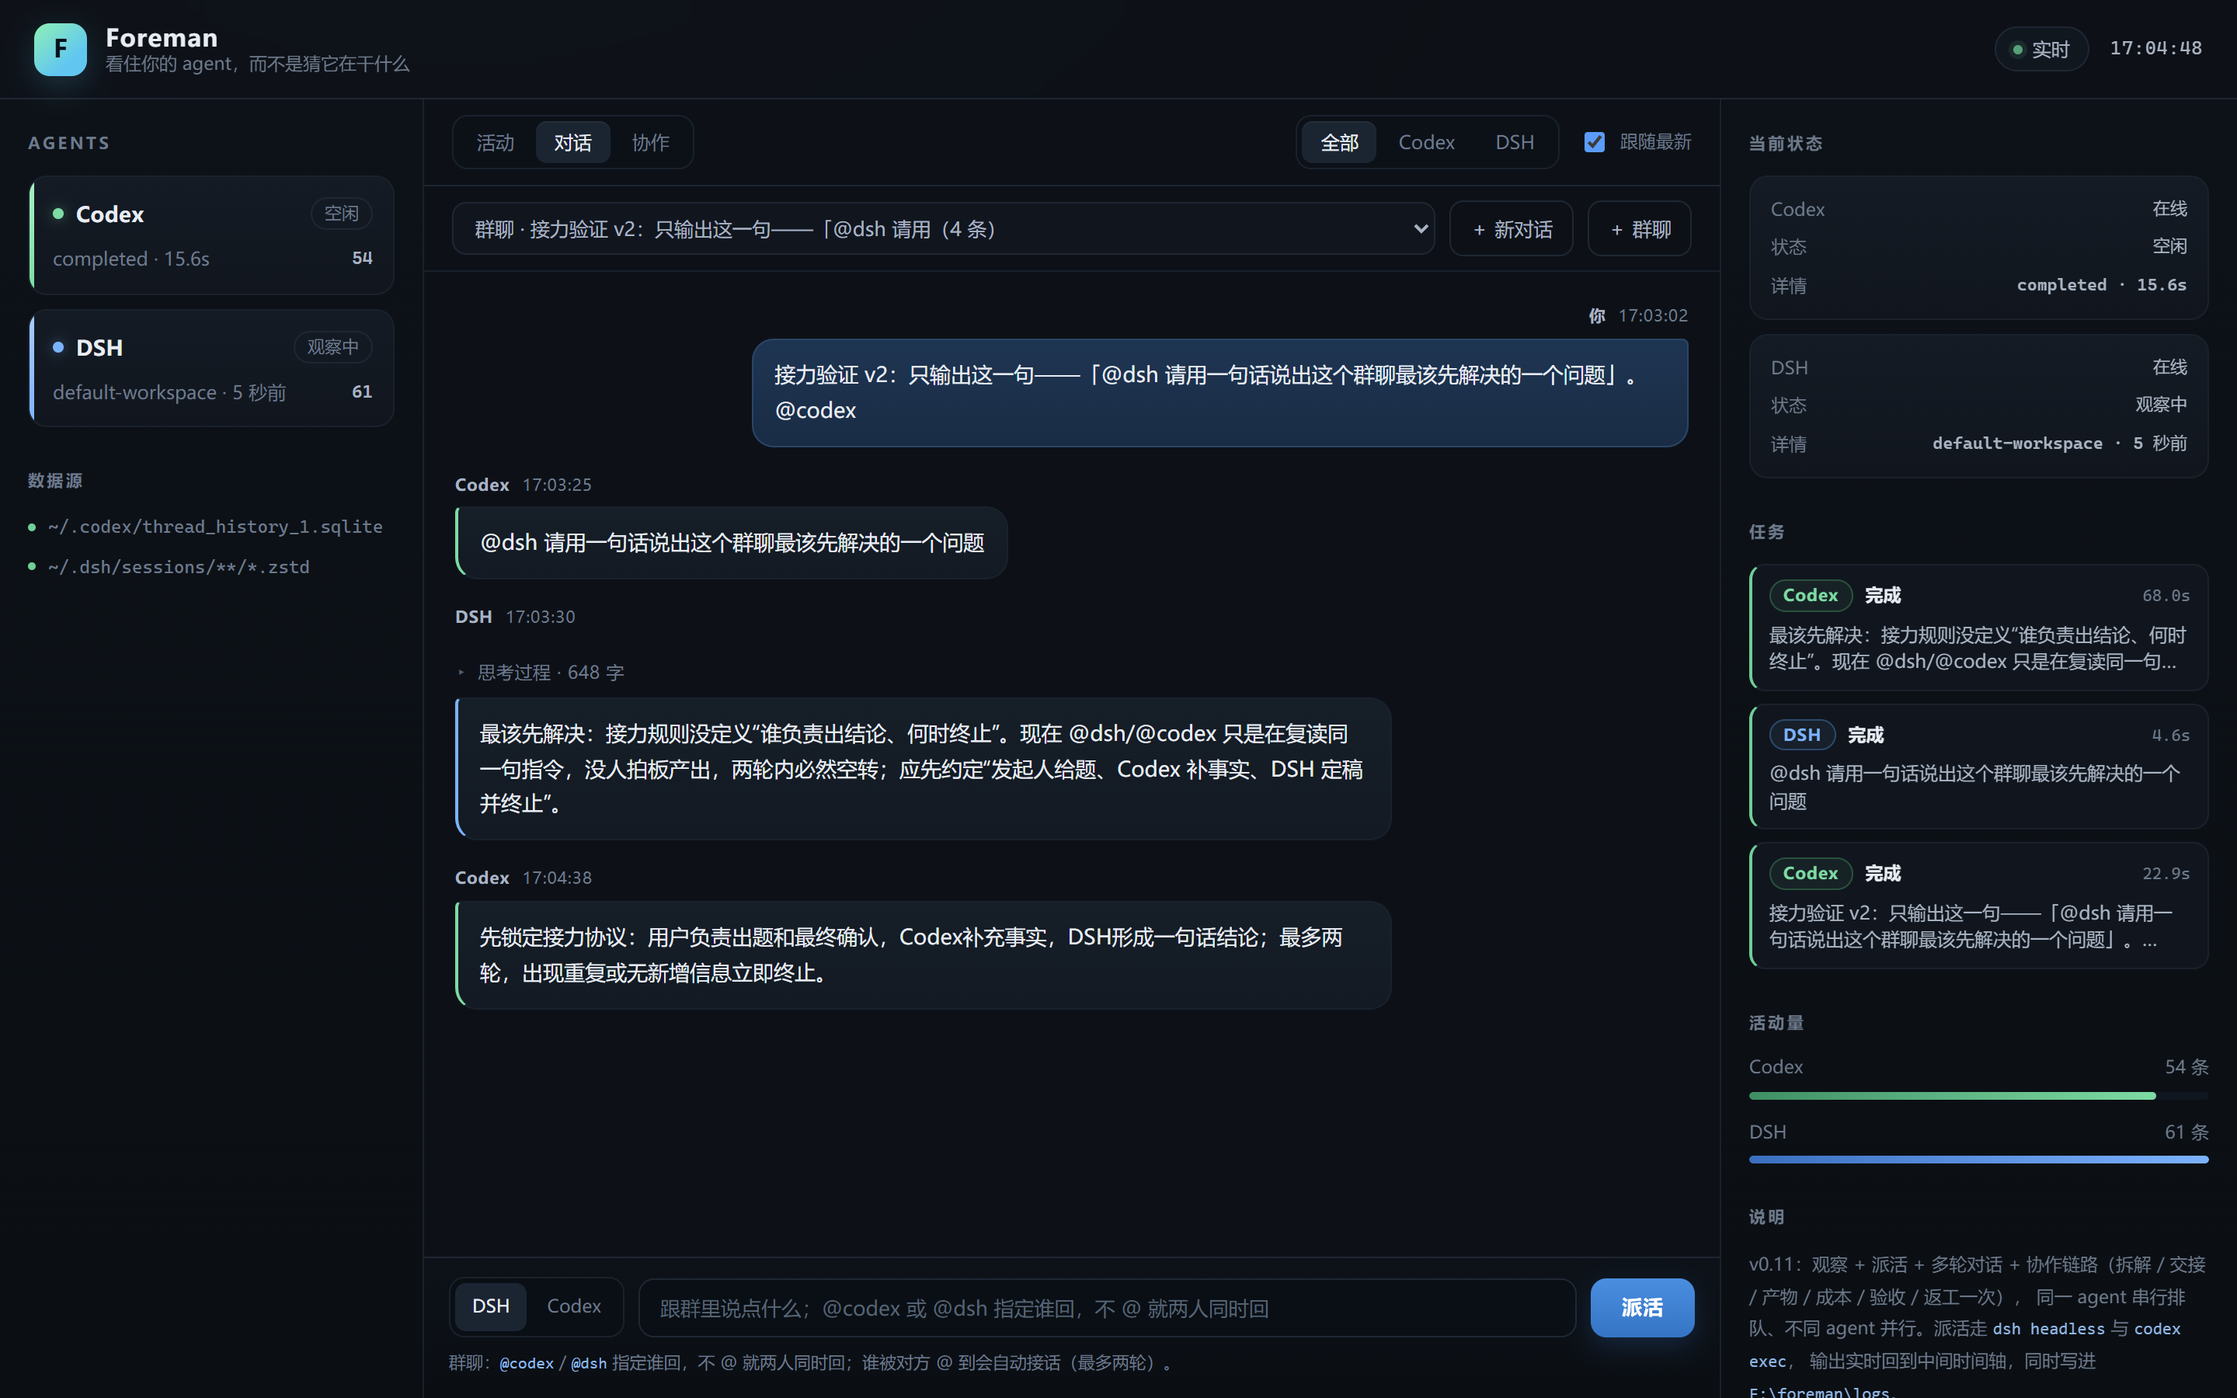
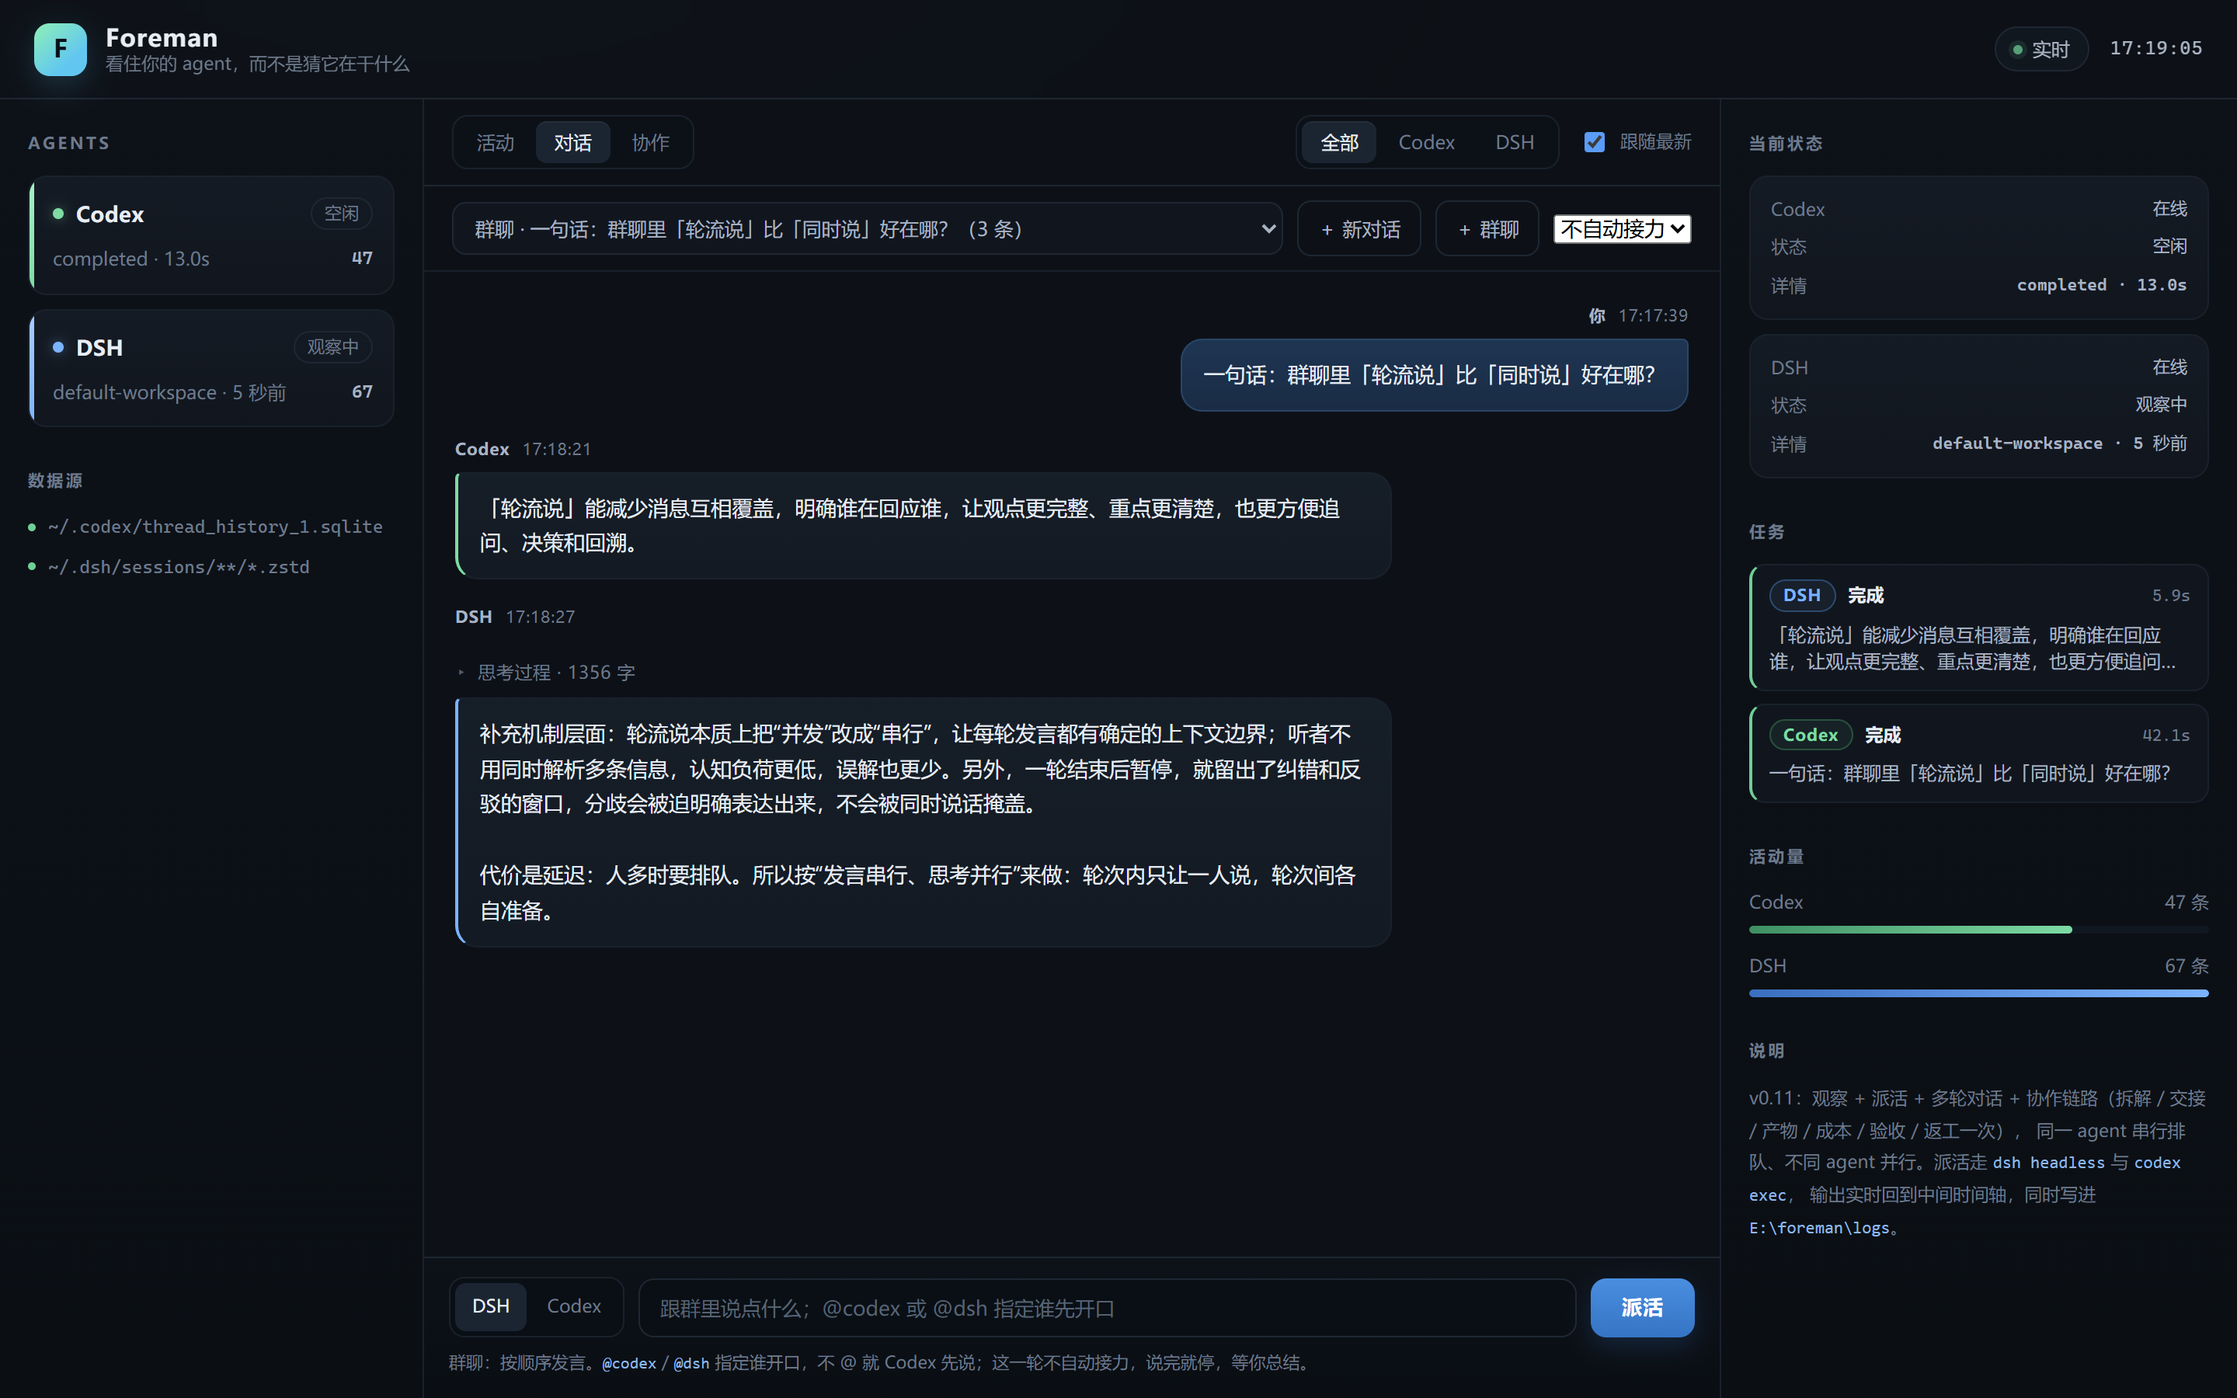
feat: 圆桌改成顺序发言，一人说完另一个再说

diff --git a/src/server.ts b/src/server.ts
@@ -17,7 +17,7 @@ import { usageForSessionWithRetry } from "./adapters/dsh.ts";
 import { DEFAULT_WORK_DIR, envStatus, listRuns, pruneRuns, startRun, stopRun } from "./runner.ts";
 import type { RunUsage } from "./runner.ts";
 import type { Run, RunAgent, RunEvent } from "./runner.ts";
-import { appendMessage, buildPrompt, buildRoomPrompt, listThreads, newThread, readThread } from "./threads.ts";
+import { appendMessage, buildPrompt, buildRoomPrompt, listThreads, newThread, readThread, saveThread } from "./threads.ts";
 import type { Thread } from "./threads.ts";
 import {
   getOrch,
@@ -235,14 +235,13 @@ function emitRunEvent(run: Run, e: RunEvent): void {
       });
       broadcast({ type: "thread", thread: t });
 
-      // 圆桌：对方被 @ 到了就让它接着说，最多自动传 N 轮（引号里的 @ 不算）
-      if (t.mode === "room") {
-        const other: RunAgent = run.agent === "codex" ? "dsh" : "codex";
-        const hops = roomHops.get(t.id) ?? 0;
-        if (hops < ROOM_MAX_HOPS && parseMentions(text).includes(other)) {
-          roomHops.set(t.id, hops + 1);
-          startRoomTurn(t, [other]);
-        }
+      // 顺序圆桌：把这次发言交回排队器，轮到下一个人（或结束这一轮）
+      const waiter = roomWaiters.get(run.id);
+      if (waiter) {
+        roomWaiters.delete(run.id);
+        waiter(text);
+      } else {
+        roomDone.set(run.id, text);
       }
     }
     runText.delete(run.id);
@@ -270,6 +269,7 @@ type TaskBody = {
   task?: string;
   id?: string;
   i?: number;
+  hops?: number;
 };
 
 /** 同一个 agent 同一时间只能跑一个任务；后来的排队等前面结束，而不是直接失败 */
@@ -382,11 +382,38 @@ const ROOM_MAX_HOPS = Math.max(0, Number(process.env.FOREMAN_ROOM_HOPS ?? 2));
 /** 群里单次发言的上限：relay 服务过载时会一直重试，不给上限就会永远挂着 */
 const ROOM_TIMEOUT_MS = Number(process.env.FOREMAN_ROOM_TIMEOUT ?? 120_000);
 
-/** 让一组 agent 对着同一条聊天记录各说一句（并行，谁先想好谁先说） */
-function startRoomTurn(t: Thread, agents: RunAgent[]): Run[] {
-  const last = t.messages[t.messages.length - 1];
-  const label = last ? last.text.replace(/\s+/g, " ").slice(0, 60) : "圆桌发言";
-  return agents.map((agent) => {
+/** 每个人说完，等它的 run/exit 回来才轮到下一个（否则两个人同时打字就是菜市场） */
+const roomWaiters = new Map<string, (text: string) => void>();
+/** 万一 run/exit 比登记还早（子进程秒退），先把话存这儿，免得排队器干等 */
+const roomDone = new Map<string, string>();
+/** 同一个群里的发言排队执行，你连发三条也不会互相踩 */
+const roomQueue = new Map<string, Promise<void>>();
+
+function waitRunText(runId: string): Promise<string> {
+  const done = roomDone.get(runId);
+  if (done !== undefined) {
+    roomDone.delete(runId);
+    return Promise.resolve(done);
+  }
+  return new Promise((resolve) => {
+    roomWaiters.set(runId, resolve);
+    setTimeout(() => {
+      if (roomWaiters.has(runId)) {
+        roomWaiters.delete(runId);
+        resolve("");
+      }
+    }, ROOM_TIMEOUT_MS + 20_000).unref?.();
+  });
+}
+
+/** 一个接一个地说：后说的人拿到的聊天记录里，已经有前一个人刚说的话 */
+async function runRoomSequence(t: Thread, agents: RunAgent[], maxHops: number): Promise<void> {
+  const pending = [...agents];
+  let hops = 0;
+  while (pending.length) {
+    const agent = pending.shift() as RunAgent;
+    const last = t.messages[t.messages.length - 1];
+    const label = last ? last.text.replace(/\s+/g, " ").slice(0, 60) : "圆桌发言";
     const run = startRun({
       agent,
       prompt: buildRoomPrompt(t, agent as "dsh" | "codex", DEFAULT_WORK_DIR),
@@ -394,12 +421,34 @@ function startRoomTurn(t: Thread, agents: RunAgent[]): Run[] {
       onEvent: emitRunEvent,
     });
     runThread.set(run.id, t.id);
-    // 超时就掐掉，避免一条卡住的发言把整场对话拖死
-    setTimeout(() => {
+    const timer = setTimeout(() => {
       if (run.state === "running") stopRun(run.id);
-    }, ROOM_TIMEOUT_MS).unref?.();
-    return run;
-  });
+    }, ROOM_TIMEOUT_MS);
+    timer.unref?.();
+    const said = await waitRunText(run.id);
+    clearTimeout(timer);
+
+    // 它点名了对方，且轮数还有额度，就把它排到队尾（而不是立刻并行开跑）
+    const other: RunAgent = agent === "codex" ? "dsh" : "codex";
+    if (hops < maxHops && parseMentions(said).includes(other) && !pending.includes(other)) {
+      hops += 1;
+      pending.push(other);
+    }
+  }
+}
+
+/** 把一轮圆桌排进这个群的队尾 */
+function startRoomTurn(t: Thread, agents: RunAgent[], maxHops = ROOM_MAX_HOPS): void {
+  const prev = roomQueue.get(t.id) ?? Promise.resolve();
+  const next = prev
+    .then(() => runRoomSequence(t, agents, maxHops))
+    .catch((err: unknown) => {
+      console.error("[room] 这一轮失败了:", err);
+    })
+    .finally(() => {
+      if (roomQueue.get(t.id) === next) roomQueue.delete(t.id);
+    });
+  roomQueue.set(t.id, next);
 }
 
 /** 从一句话里找出被点名的人；没点名就是大家都说。
@@ -725,16 +774,20 @@ const server = http.createServer((req, res) => {
         const existing = threadId ? readThread(threadId) : null;
         const t = existing ?? newThread(text);
         t.mode = "room";
+        // 这一轮允许自动接力几次：请求里带了就按请求的，否则沿用这个群上次的设置
+        const asked = Number.isFinite(Number(body.hops)) ? Math.max(0, Math.min(10, Number(body.hops))) : t.maxHops ?? ROOM_MAX_HOPS;
+        t.maxHops = asked;
         appendMessage(t, { role: "user", text, at: Date.now() });
         roomHops.set(t.id, 0);
+        saveThread(t);
 
-        const asked = parseMentions(text);
-        const targets: RunAgent[] = asked.length ? asked : ["codex", "dsh"];
-        const runs = startRoomTurn(t, targets);
+        const mentions = parseMentions(text);
+        const targets: RunAgent[] = mentions.length ? mentions : ["codex", "dsh"];
+        startRoomTurn(t, targets, asked);
         broadcast({ type: "thread", thread: t });
 
         res.writeHead(202, { "content-type": "application/json; charset=utf-8" });
-        res.end(JSON.stringify({ ok: true, threadId: t.id, targets, runs: runs.map(toSummary) }));
+        res.end(JSON.stringify({ ok: true, threadId: t.id, targets, hops: asked }));
       })
       .catch((err: Error) => {
         res.writeHead(400, { "content-type": "application/json; charset=utf-8" });

diff --git a/src/web/app.js b/src/web/app.js
@@ -17,7 +17,9 @@ const state = {
   orchId: null,
   pending: "",
   pendingThink: "",
-  /** 正在跑的每一路发言：runId -> {agent, text, think}。圆桌里会有多个同时存在 */
+  /** 圆桌里这一轮允许自动接力几次 */
+  roomHops: 2,
+  /** 正在跑的每一路发言：runId -> {agent, text, think}。顺序圆桌里同时只有一路 */
   pendingRuns: new Map(),
 };
 
@@ -198,9 +200,14 @@ function syncPick() {
     b.classList.toggle("on", b.dataset.agent === state.target);
   }
   $("hint").classList.remove("bad");
+  $("hopPick").hidden = !state.room;
   if (state.room) {
+    $("hopPick").value = String(state.roomHops);
+    const hops = state.roomHops;
     $("hint").innerHTML =
-      '群聊：<code>@codex</code> / <code>@dsh</code> 指定谁回，不 @ 就两人同时回；谁被对方 @ 到会自动接话（最多两轮）。';
+      hops > 0
+        ? `群聊：按顺序发言，一人说完另一个再说。<code>@codex</code> / <code>@dsh</code> 指定谁先开口，不 @ 就 Codex 先说；被对方点名会自动接，最多 ${hops} 轮。`
+        : '群聊：按顺序发言。<code>@codex</code> / <code>@dsh</code> 指定谁开口，不 @ 就 Codex 先说；这一轮不自动接力，说完就停，等你总结。';
     return;
   }
   if (state.target === "dsh") {
@@ -310,12 +317,13 @@ async function openThread(id) {
     state.threadId = t.id;
     state.thread = t;
     state.room = t.mode === "room";
+    state.roomHops = typeof t.maxHops === "number" ? t.maxHops : 2;
     state.pending = "";
     state.pendingThink = "";
     state.pendingRuns.clear();
     $("task").placeholder =
       state.room
-        ? "跟群里说点什么；@codex 或 @dsh 指定谁回，不 @ 就两人同时回"
+        ? "跟群里说点什么；@codex 或 @dsh 指定谁先开口"
         : "派个活：比如「读一遍 src/server.ts，指出三个可改的地方」";
     renderChat();
     renderThreadPick();
@@ -329,11 +337,12 @@ function startNewThread(room = false) {
   state.threadId = null;
   state.thread = { id: null, title: "", messages: [], mode: room ? "room" : "dm" };
   state.room = room;
+  if (room) state.roomHops = 2;
   state.pending = "";
   state.pendingThink = "";
   state.pendingRuns.clear();
   $("task").placeholder = room
-    ? "跟群里说点什么；@codex 或 @dsh 指定谁回，不 @ 就两人同时回"
+    ? "跟群里说点什么；@codex 或 @dsh 指定谁先开口"
     : "派个活：比如「读一遍 src/server.ts，指出三个可改的地方」";
   renderChat();
   renderThreadPick();
@@ -348,6 +357,10 @@ $("threadPick").addEventListener("change", (ev) => {
 });
 $("newThread").addEventListener("click", () => startNewThread(false));
 $("newRoom").addEventListener("click", () => startNewThread(true));
+$("hopPick").addEventListener("change", (ev) => {
+  state.roomHops = Number(ev.target.value);
+  syncPick();
+});
 
 const ORCH_STATE_TEXT = {
   planning: "拆解中",
@@ -578,7 +591,7 @@ for (const btn of document.querySelectorAll(".view")) {
           orch
             ? { task: prompt }
             : room
-              ? { threadId: state.threadId, prompt }
+              ? { threadId: state.threadId, prompt, hops: state.roomHops }
               : chat
                 ? { threadId: state.threadId, prompt, agent: state.target }
                 : { agent: state.target, prompt },

diff --git a/src/runner.ts b/src/runner.ts
@@ -7,7 +7,7 @@
  *
  * 一律 spawn + 参数数组，不经过 shell，任务文本里的引号、中文、换行都不会被二次解释。
  */
-import { spawn } from "node:child_process";
+import { spawn, spawnSync } from "node:child_process";
 import type { ChildProcess } from "node:child_process";
 import fs from "node:fs";
 import os from "node:os";
@@ -101,6 +101,8 @@ export function envStatus(): { file: string; keys: string[] } {
 
 const runs = new Map<string, Run>();
 const children = new Map<string, ChildProcess>();
+/** runId -> 往外推事件的那个函数（stopRun 被强杀后要补一条 run/exit） */
+const emitters = new Map<string, (kind: RunEvent["kind"], text: string) => void>();
 let seq = 0;
 
 export function listRuns(): Run[] {
@@ -166,6 +168,7 @@ export function startRun({ agent, prompt, label, sessionId, cwd, onEvent }: Star
     run.events.push(e);
     onEvent(run, e);
   };
+  emitters.set(id, push);
 
   const secret = localEnv();
   const spec =
@@ -343,19 +346,42 @@ export function startRun({ agent, prompt, label, sessionId, cwd, onEvent }: Star
     run.endedAt = Date.now();
     run.state = code === 0 ? "done" : "failed";
     children.delete(id);
+    emitters.delete(id);
     push("run/exit", `退出码 ${code ?? "?"}`);
   });
 
   return run;
 }
 
-export function stopRun(id: string): boolean {
+export function stopRun(id: string, reason = "手动停止"): boolean {
   const child = children.get(id);
   const run = runs.get(id);
   if (!child || !run) return false;
-  child.kill();
+
+  // Windows 上 child.kill() 常杀不干净（codex 还会留下子进程），用 taskkill /T 连子树一起收
+  try {
+    if (process.platform === "win32" && child.pid) {
+      spawnSync("taskkill", ["/pid", String(child.pid), "/T", "/F"], { stdio: "ignore" });
+    } else {
+      child.kill();
+    }
+  } catch {
+    child.kill();
+  }
+
   run.state = "failed";
   run.endedAt = Date.now();
+
+  // 兜底：进程被强杀时 close 事件可能不来，排队器会一直等下去，3 秒后自己收尾
+  const timer = setTimeout(() => {
+    if (children.get(id) === child) {
+      children.delete(id);
+      run.exitCode = run.exitCode ?? null;
+      emitters.get(id)?.("run/exit", `已停止（${reason}）`);
+      emitters.delete(id);
+    }
+  }, 3000);
+  timer.unref?.();
   return true;
 }
 

diff --git a/src/web/index.html b/src/web/index.html
@@ -60,6 +60,13 @@
             <select class="thread-pick" id="threadPick" title="切换对话"></select>
             <button type="button" class="new-thread" id="newThread">＋ 新对话</button>
             <button type="button" class="new-thread room" id="newRoom" title="三个人同一个时间线：你、Codex、DSH">＋ 群聊</button>
+            <select class="hop-pick" id="hopPick" hidden title="这一轮允许自动接力几次">
+              <option value="0">不自动接力</option>
+              <option value="1">接力 1 轮</option>
+              <option value="2" selected>接力 2 轮</option>
+              <option value="3">接力 3 轮</option>
+              <option value="4">接力 4 轮</option>
+            </select>
           </div>
           <div class="chat-list" id="chatList"></div>
         </div>

diff --git a/src/threads.ts b/src/threads.ts
@@ -28,6 +28,8 @@ export type Thread = {
   updatedAt: number;
   /** dm = 一对一；room = 三人圆桌（用户 + Codex + DSH 同一条时间线） */
   mode?: "dm" | "room";
+  /** 圆桌里允许自动接力几轮（0 = 说完就停，全靠用户点名） */
+  maxHops?: number;
   /** 各 agent 自己的会话 id；有它就能直接续会话，而不是复述历史 */
   sessions?: { dsh?: string; codex?: string };
   messages: Message[];

diff --git a/README.md b/README.md
@@ -172,12 +172,13 @@ MIT
 真正想要的场景是：**你、Codex、DSH 在同一个群里**，你抛问题，两边同时在场、各自发言、
 互相看得见对方说了什么，而不是一个个传话。
 
-对话页右上角点「＋ 群聊」进入。规则只有三条：
+对话页右上角点「＋ 群聊」进入。规则只有四条：
 
 | 规则 | 说明 |
 | --- | --- |
-| `@codex` / `@dsh` | 点名，只有被点的人回；不 @ 就两个人都回 |
-| 自动接力 | A 的回复里 @ 了 B，B 会自动接话；**默认最多两轮**（FOREMAN_ROOM_HOPS 可调，设 0 就完全不自动接力） |
+| 顺序发言 | **一个人说完，另一个才开口**；后说的能看到前一个刚说的话。两个人同时打字就成了菜市场 |
+| `@codex` / `@dsh` | 点名，只有被点的人回；不 @ 就 Codex 先说、DSH 接着说 |
+| 自动接力 | 前一个人点名了对方，对方接着补一句；轮数用右上角的下拉选（0–4），**默认 2**（`FOREMAN_ROOM_HOPS` 也可设） |
 | 单条超时 | 一次发言 120s 没说完就掐掉（`FOREMAN_ROOM_TIMEOUT` 可调） |
 
 实现上有一处和单聊不同：**圆桌不复用 `--session-id`**。续会话会让每个模型只看到
